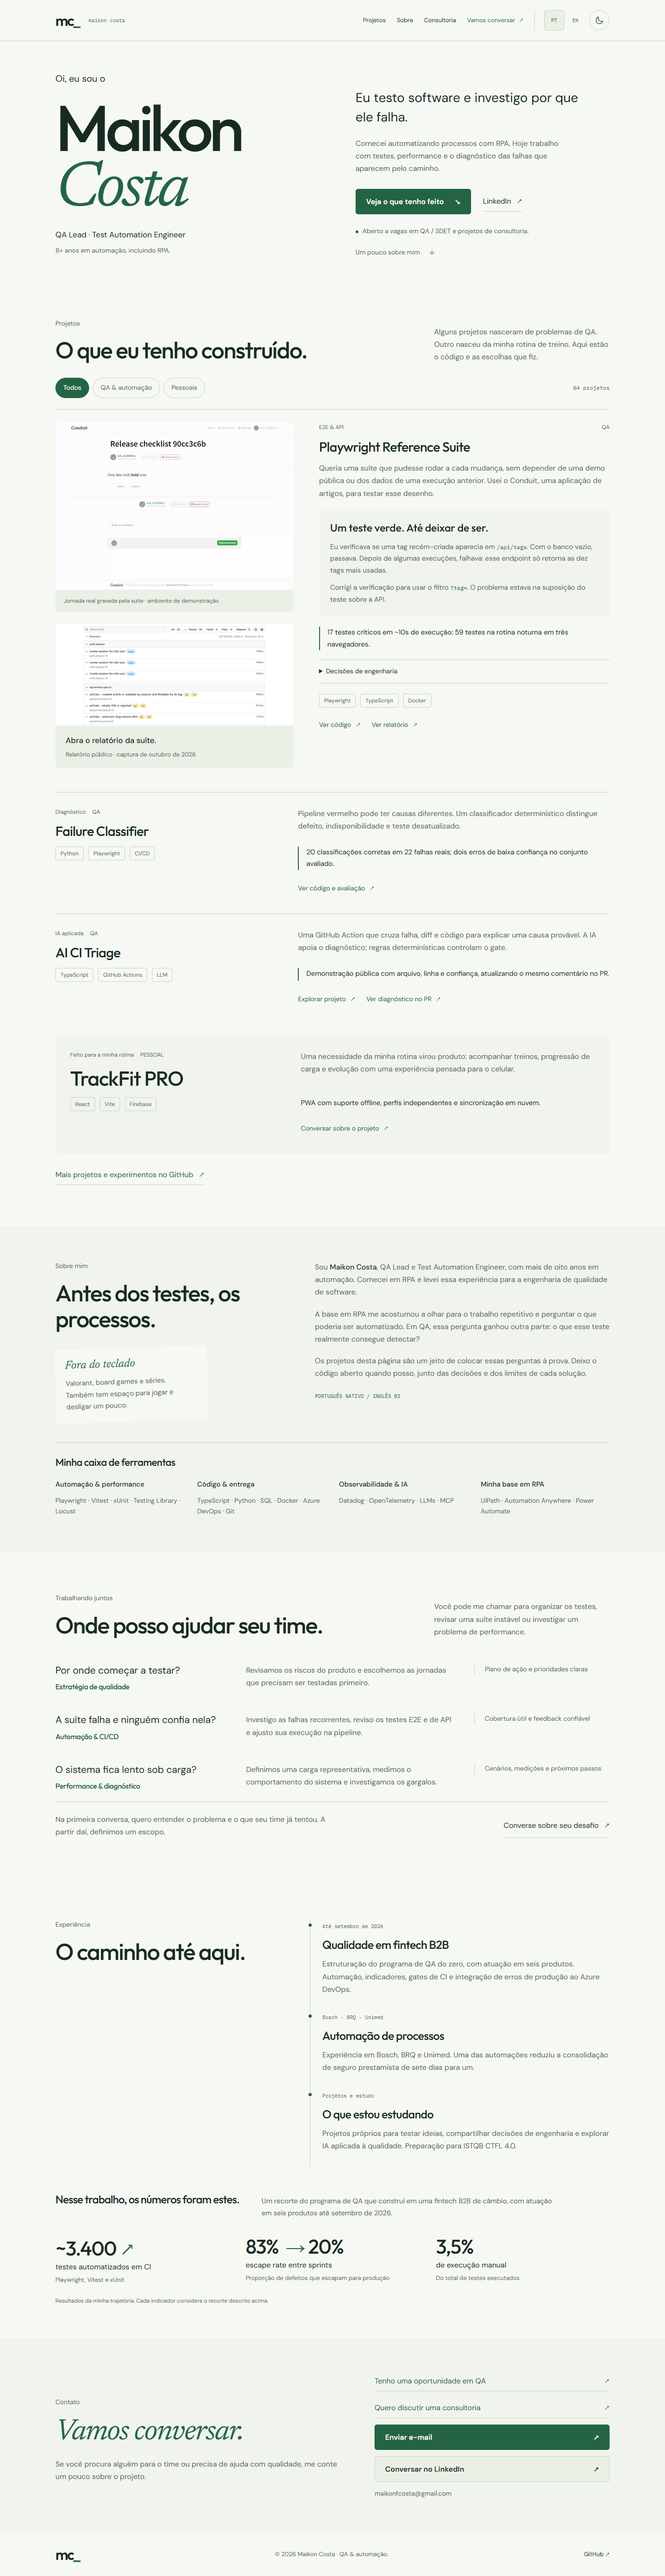
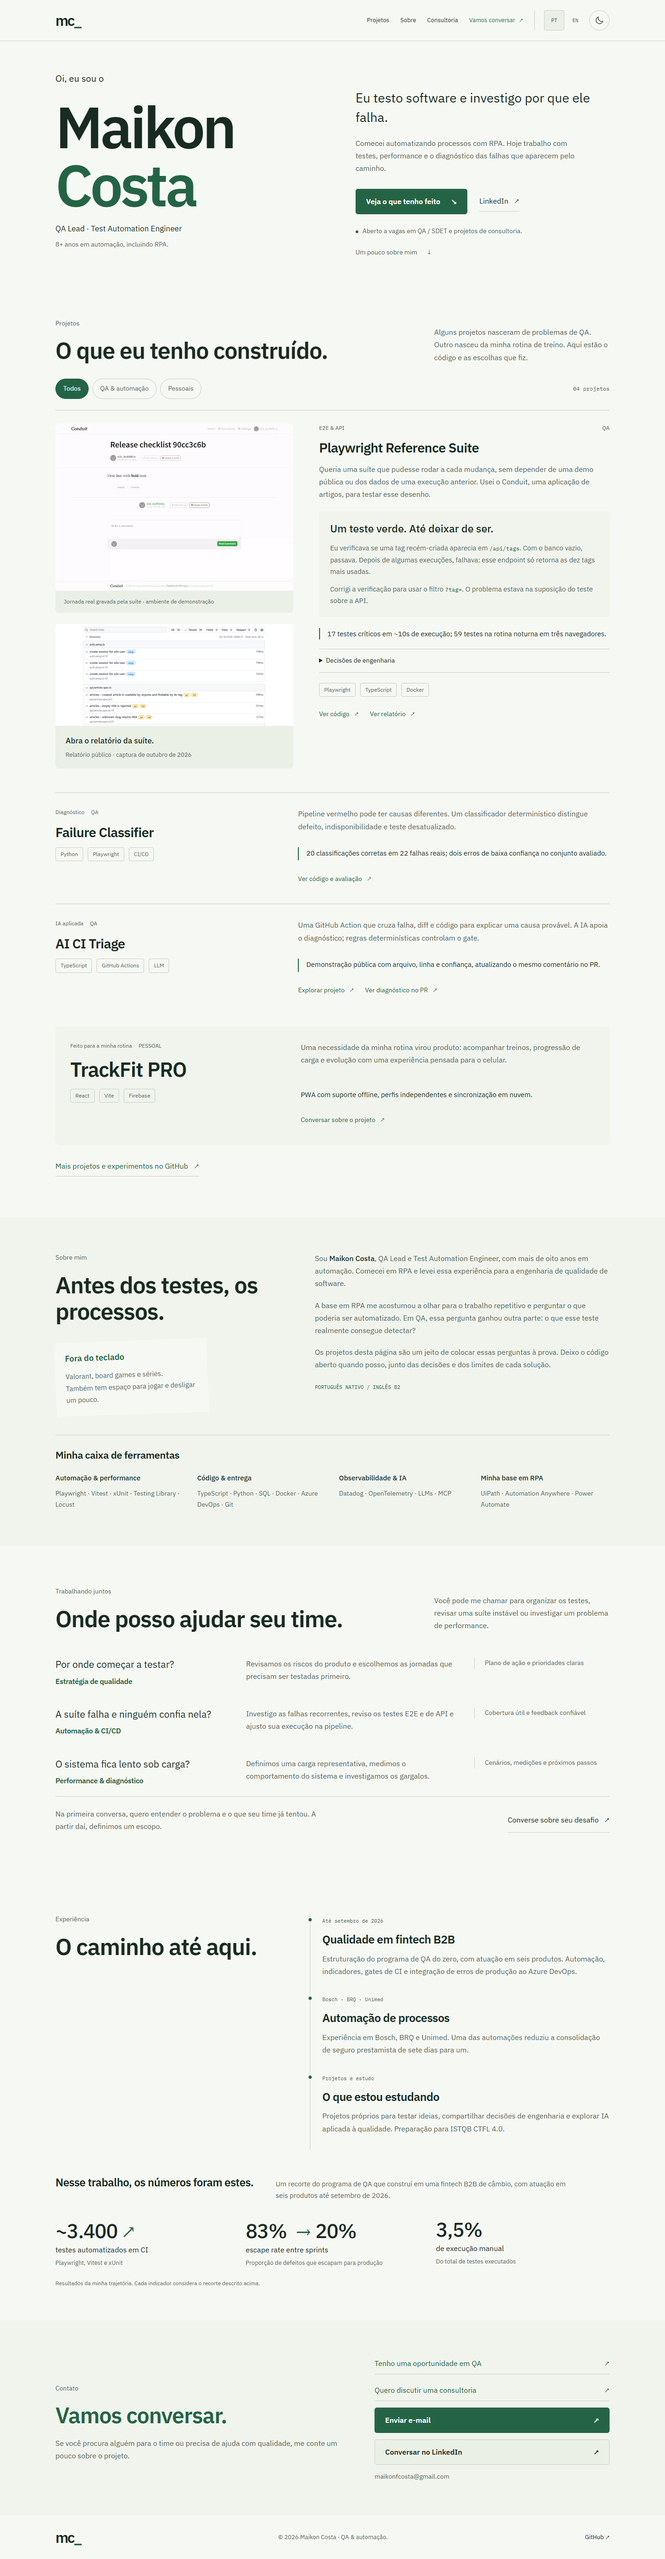
style: simplify typography and remove duplicate header name
Use IBM Plex Sans for consistent headings and body text. Keep only the monogram in the header and refresh visual evidence.

Validation: qa-ci-local passed, including 20 responsive combinations and 8 axe audits.
Date: 2026-10-02 15:15:08 GMT-3

diff --git a/assets/professional.css b/assets/professional.css
@@ -1,4 +1,4 @@
-@import url('https://fonts.googleapis.com/css2?family=DM+Sans:wght@400;500;600;700&family=IBM+Plex+Mono:wght@400;500&family=Outfit:wght@400;500;600&family=Newsreader:ital,wght@1,400&display=swap');
+@import url('https://fonts.googleapis.com/css2?family=IBM+Plex+Sans:wght@400;500;600;700&family=IBM+Plex+Mono:wght@400;500&display=swap');
 
 :root {
   color-scheme: dark;
@@ -19,8 +19,8 @@
   --art-alt: #202b2a;
   --code: #b5d9c5;
   --mono: 'IBM Plex Mono', monospace;
-  --heading: 'Outfit', 'Trebuchet MS', sans-serif;
-  --body: 'DM Sans', 'Segoe UI', sans-serif;
+  --heading: 'IBM Plex Sans', 'Segoe UI', sans-serif;
+  --body: 'IBM Plex Sans', 'Segoe UI', sans-serif;
   --ease: cubic-bezier(.22, 1, .36, 1);
   --fast: 180ms;
 }
@@ -62,7 +62,7 @@ a:hover { color: var(--accent); }
 a:focus-visible, button:focus-visible { outline: 2px solid var(--accent); outline-offset: 5px; }
 ::selection { background: var(--accent); color: var(--ink); }
 h1, h2, h3, h4, p { margin: 0; }
-h1, h2, h3 { font-family: var(--heading); font-weight: 500; line-height: 1.12; letter-spacing: -.035em; }
+h1, h2, h3 { font-family: var(--heading); font-weight: 600; line-height: 1.15; letter-spacing: -.025em; }
 h2 { font-size: clamp(34px, 4vw, 50px); }
 h3 { font-size: 25px; letter-spacing: -.025em; }
 h4 { font-size: 15px; font-weight: 500; }
@@ -81,7 +81,6 @@ p { color: var(--muted); }
 .header-inner { min-height: 88px; display: flex; align-items: center; gap: 24px; }
 .wordmark { font: 600 32px var(--heading); letter-spacing: -.08em; display: inline-flex; align-items: center; min-height: 44px; flex-shrink: 0; }
 .wordmark > span:first-child { color: var(--accent); }
-.wordmark-name { font: 400 11px var(--mono); letter-spacing: 0; margin-left: 20px; color: var(--muted); }
 nav { display: flex; align-items: center; gap: 24px; margin-left: auto; }
 nav a { position: relative; font-size: 13px; min-height: 44px; display: inline-flex; align-items: center; gap: 8px; white-space: nowrap; }
 nav a::after { content: ''; position: absolute; bottom: 5px; left: 0; width: 100%; height: 1px; background: var(--accent); transform: scaleX(0); transform-origin: left; transition: transform var(--fast) var(--ease); }
@@ -106,7 +105,7 @@ nav a[aria-current] { color: var(--accent); }
 /* Composição editorial: identidade, evidência e leitura antes da decoração. */
 .hero { display:grid; grid-template-columns:1.05fr 1fr; gap:12px 72px; align-items:start; padding-top:64px; padding-bottom:32px; }
 .hero-copy { grid-column:1; grid-row:1 / span 2; }
-h1 { font-size:clamp(82px,9.7vw,140px); letter-spacing:-.065em; line-height:.92; }
+h1 { font-size:clamp(78px,9vw,126px); font-weight:600; letter-spacing:-.045em; line-height:1; }
 .hero-role { color:var(--text); font-size:17px; margin-top:18px; font-weight:400; }
 .hero-experience { font-size:14px; margin-top:8px; }
 .hero-role span { color:var(--line); padding:0 6px; }
@@ -208,7 +207,7 @@ h1 { font-size:clamp(82px,9.7vw,140px); letter-spacing:-.065em; line-height:.92;
 @supports(backdrop-filter:blur(16px)) { .site-header { background:var(--header-glass); backdrop-filter:blur(16px); } }
 
 .hero-greeting { font-size:20px; color:var(--text); margin-bottom:24px; }
-.hero h1 span { display:block; font-family:'Newsreader',Georgia,serif; font-style:italic; font-weight:400; color:var(--accent); letter-spacing:-.05em; padding-top:8px; }
+.hero h1 span { display:block; font-family:var(--heading); font-style:normal; font-weight:600; color:var(--accent); letter-spacing:-.045em; padding-top:0; }
 .hero-introduction { grid-column:2; padding-top:38px; }
 .hero-bottom p,.hero-bottom a { font-size:14px; color:var(--muted); }
 .hero-bottom a { min-height:44px; display:inline-flex; align-items:center; gap:20px; }
@@ -230,14 +229,14 @@ code { font:12px var(--mono); color:var(--accent); overflow-wrap:anywhere; }
 .project-card[data-category='personal'] h3 { font-size:44px; }
 .project-card[data-category='personal'] .project-proof { border-left:0; padding-left:0; }
 .personal-note { transform:rotate(-2deg); padding:22px; max-width:330px; background:var(--bg); border-radius:3px; }
-.personal-note > span { font:italic 25px 'Newsreader',Georgia,serif; color:var(--accent); }
+.personal-note > span { font:600 18px var(--heading); color:var(--accent); }
 .services-grid .service-question { color:var(--text); font-size:21px; line-height:1.4; grid-column:1; grid-row:1; }
 .services-grid article > p:not(.service-question) { grid-column:2; grid-row:1 / span 2; }
-.contact-inner h2 { font:italic 64px/1.1 'Newsreader',Georgia,serif; color:var(--accent); }
+.contact-inner h2 { font:600 48px/1.15 var(--heading); color:var(--accent); }
 @media(min-width:981px) { .hero-copy { animation:enter 650ms var(--ease) both; } .work-preview { animation:enter 800ms var(--ease) both; } }
 @keyframes enter { from { opacity:0; translate:0 12px; } to { opacity:1; translate:0 0; } }
 
-@media(max-width:1100px) { .wordmark-name { display:none; } .container { width:calc(100% - 64px); } .hero { gap:40px; } .hero-role { font-size:15px; } .hero h1 { font-size:110px; } .project-card.featured-case { gap:24px 32px; } .results-heading { display:block; } .results-heading p { margin-top:12px; } }
+@media(max-width:1100px) { .container { width:calc(100% - 64px); } .hero { gap:40px; } .hero-role { font-size:15px; } .hero h1 { font-size:100px; } .project-card.featured-case { gap:24px 32px; } .results-heading { display:block; } .results-heading p { margin-top:12px; } }
 @media(max-width:980px) {
  .header-inner { min-height:76px; gap:12px; flex-wrap:wrap; }
  .header-tools { margin-left:auto; padding-left:0; border:0; }
@@ -245,7 +244,7 @@ code { font:12px var(--mono); color:var(--accent); overflow-wrap:anywhere; }
  .js nav { display:none; }
  nav, .js nav.is-open { display:flex; flex-basis:100%; order:4; flex-wrap:wrap; padding-bottom:16px; margin-left:0; }
  .hero { padding-top:60px; gap:32px; }
- .hero h1 { font-size:92px; }
+ .hero h1 { font-size:86px; }
  .hero-role { font-size:14px; }
  .hero-description { font-size:22px; }
  .section-heading { align-items:start; gap:24px; }
@@ -266,7 +265,7 @@ code { font:12px var(--mono); color:var(--accent); overflow-wrap:anywhere; }
  .menu-toggle span { display:none; }
  .hero { grid-template-columns:1fr; padding-top:40px; gap:26px; }
  .hero-copy,.hero-introduction,.hero-bottom { grid-column:1; grid-row:auto; }
- .hero h1 { font-size:clamp(85px,20vw,120px); }
+ .hero h1 { font-size:clamp(74px,18vw,100px); }
  .hero-greeting { font-size:18px; margin-bottom:18px; }
  .hero-role { font-size:15px; margin-top:20px; }
  .hero-introduction { padding:0; }
@@ -302,7 +301,7 @@ code { font:12px var(--mono); color:var(--accent); overflow-wrap:anywhere; }
  .consulting-note a { margin-top:18px; }
  .experience-section { padding-bottom:30px; }
  .contact-section { padding:48px 0; }
- .contact-inner h2 { font-size:52px; }
+ .contact-inner h2 { font-size:38px; }
  .footer { flex-wrap:wrap; }
  .footer p { order:3; flex-basis:100%; }
 }

diff --git a/index.html b/index.html
@@ -19,7 +19,7 @@
   <a class="skip-link" href="#conteudo">Pular para o conteúdo</a>
   <header class="site-header">
     <div class="container header-inner">
-      <a class="wordmark" href="#inicio" aria-label="Maikon Costa, início">mc<span aria-hidden="true">_</span><span class="wordmark-name">maikon costa</span></a>
+      <a class="wordmark" href="#inicio" aria-label="Maikon Costa, início">mc<span aria-hidden="true">_</span></a>
       <nav id="navigation" aria-label="Navegação principal">
         <a href="#projetos">Projetos</a><a href="#sobre">Sobre</a><a href="#consultoria">Consultoria</a><a href="#contato" class="nav-contact">Vamos conversar <span aria-hidden="true">↗</span></a>
       </nav>

diff --git a/README.md b/README.md
@@ -17,7 +17,7 @@ Execute `python tests/smoke.py` e `python tests/preferences.py` para validar. O 
 
 Conteúdo baseado no README do perfil e nas descrições locais dos projetos. Resultados profissionais são autorrelatados e contextualizados; não representam auditoria externa. Capturas reais do relatório público e da jornada E2E usam dados de demonstração. Origem registrada em assets/evidence/README.md; as imagens são registros estáticos.
 
-As fontes Outfit, Newsreader, DM Sans e IBM Plex Mono são carregadas pelo Google Fonts, com fontes de fallback. O conteúdo, navegação e todos os projetos continuam disponíveis sem JavaScript. O filtro e menu recolhível são aprimoramentos progressivos.
+As fontes IBM Plex Sans e IBM Plex Mono são carregadas pelo Google Fonts, com fontes de fallback. O conteúdo, navegação e todos os projetos continuam disponíveis sem JavaScript. O filtro e menu recolhível são aprimoramentos progressivos.
 
 PT é o idioma inicial. O tema segue o sistema até a escolha manual. Botões PT/EN e tema salvam preferências quando o armazenamento está disponível. Idioma inclui textos, metadados, rótulos acessíveis e assunto do contato do projeto pessoal. Preferências em file:// variam por navegador; prefira HTTP para a avaliação de persistência. Sem armazenamento, os controles seguem funcionais na visita.
 
@@ -29,4 +29,4 @@ Abertura com nome em duas linhas e apresentação direta. Case principal conta a
 
 ## Repositório e validação local
 
-Repositório privado: https://github.com/maikonfcosta/portfolio. O site não está publicado. Execute ./scripts/qa-ci-local.ps1 antes de commit ou push; requer Python, Playwright com Chromium e Node. A auditoria axe consulta o registro npm.
+Repositório público: https://github.com/maikonfcosta/portfolio. O site não está publicado. Execute ./scripts/qa-ci-local.ps1 antes de commit ou push; requer Python, Playwright com Chromium e Node. A auditoria axe consulta o registro npm.

diff --git a/docs/progress.md b/docs/progress.md
@@ -32,3 +32,4 @@
 - Validação final: smoke e preferências passaram (20 combinações responsivas), incluindo tradução do relato e preservação dos endpoints no código. Axe passou em oito combinações sem violações automatizadas; revisão visual das capturas desktop/mobile realizada. Conteúdo sem tradução restrito a nomes, código, tecnologias e símbolos.
 - Prévia local atualizada. Foto continua pendente; sem commit, push ou publicação.
 Ajuste de disposição na abertura: cargo e experiência agrupados sob o nome; link Sobre junto da apresentação; removida linha de rodapé dispersa. Reduzidos recuos e espaço entre colunas. Smoke, preferências (20 combinações) e axe (oito combinações) passaram. Captura desktop revisada.
+Tipografia revisada: IBM Plex Sans para títulos e corpo; IBM Plex Mono restrita a código e rótulos técnicos. Removidos Newsreader, Outfit, DM Sans e nome redundante na barra superior. Ajustados pesos e tamanhos; qa-ci-local passou, incluindo 20 combinações responsivas e oito auditorias axe. Captura desktop revisada.
